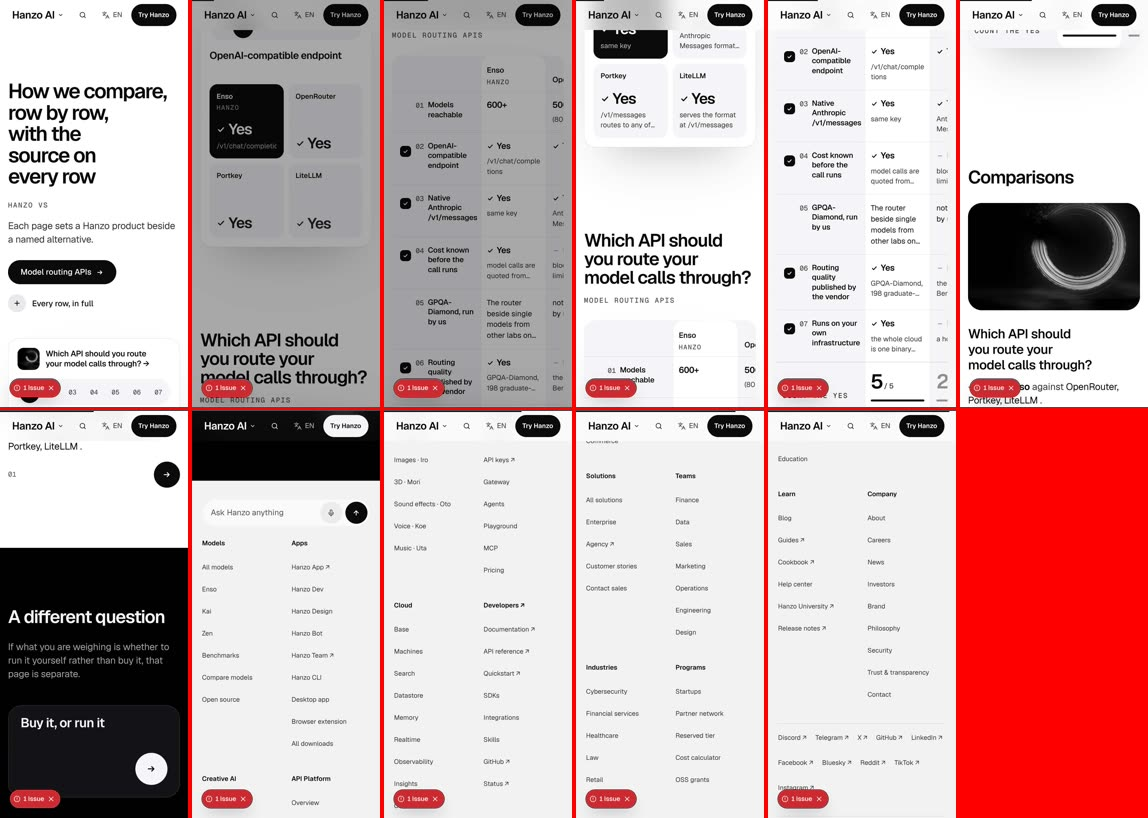
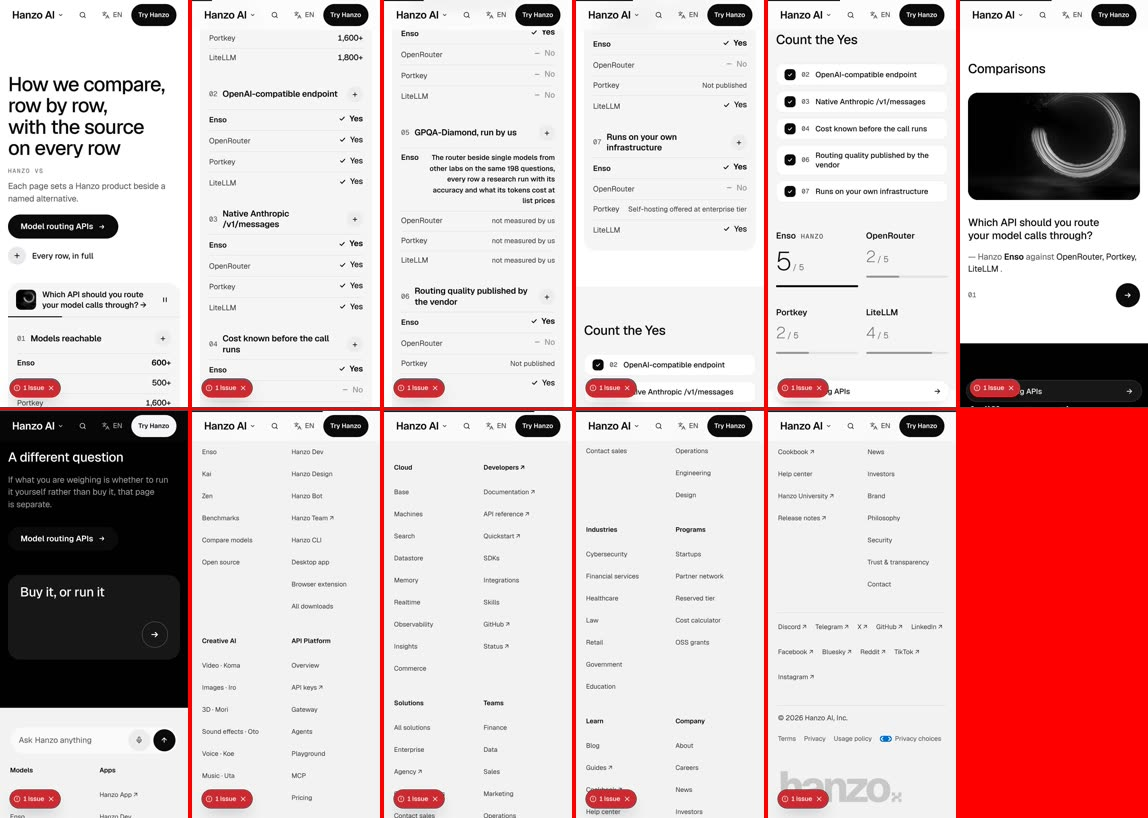
review: /compare 8/10 (third walk, post-system)
Claude-Session: https://claude.ai/code/session_01DqUybDEA5FZ4ZbAGVya4QA

diff --git a/docs/review/compare.md b/docs/review/compare.md
@@ -1,43 +1,42 @@
 # /compare — James-eye review
 
-Verdict: 7/10
-First complaint: "The board up top is lovely, then it turns into a spreadsheet of tiny grey sentences. One thing at a time."
+Verdict: 8/10
+First complaint: "Tidy and honest, but the top is just a heading and a table. I want one moment that makes me stop."
 
-Walked 7 Nov (second walk, after the rework to greys), page file at `b6f73d1` (`components/pages/Compare.jsx`, `Compare.css`), on the preview of main plus the Proof branch. Filmed moving at 1470×801 and 375×812 (wheel and finger scroll, dwell on every screen, hover and press on desktop, taps on phone), plus reduced motion and JS off. Stills: `review/compare/desktop-walk.jpg`, `review/compare/phone-walk.jpg`. The machine was overloaded, so motion is judged from frames.
+Walked 7 Nov 15:10 (third walk, after the shared system landed), page file at `575d9913` (`components/pages/Compare.jsx`, `Compare.css`), unchanged during the walk. Judged by `docs/JAMES.md` and `docs/MASTER.md`. Filmed moving at 1470×801 and 375×812 (wheel and finger scroll, dwell on every screen, hover and press on desktop, taps on phone), plus reduced motion and JS off. Stills: `review/compare/desktop-walk.jpg`, `review/compare/phone-walk.jpg`. The machine was overloaded, so motion is judged from frames.
 
 ## What works
-- The colour is gone. Greys, ink and white only. The Enso film still is the one image.
-- The hero now has a live object. The verdict board walks rows 01–07 on its own: the pill glides, the four lanes flip to that row's answer, and Enso's lane is raised in ink. It moves without input and pauses under the hand.
-- One ask, "Model routing APIs →" (Hanzo's words), in the hero, plus a desktop pill ("Hanzo vs · Model routing APIs") that stays after the hero.
-- "HANZO VS" moved under the headline as a caption, so there is no eyebrow over the h1.
-- "Count the Yes" still works (5/5, 2/5, 2/5, 4/5 recount as you untick rows). It is honest: Enso's 600+ sits beside 1,600+ and 1,800+.
-- Parity: text 28/28, links 2/2. CLS 0 on desktop, 0.01 on phone. Reduced motion leaves 0 running animations. Hovers answer; the ask lifts 1px and darkens.
+- **The first screen fits at 1470×801:** the h1 at rest size (52px, line height 1.04), lede, one ask ("Model routing APIs →") and the table as a wide object with four rows showing.
+- **The table reads itself:** a reading line walks the rows, "05 / 07" counts, a hairline times the next row, and a pause button sits in the table head. It moves within a second with no input.
+- **Scale has rhythm:** Enso's tally is the one big figure (5/5 at 84px), the other three sit at 44px, and the rest is small.
+- **Only greys and ink:** "Yes" in ink, "No" in grey with a dash, Enso's column raised by weight. The Enso film still is the one image. `taste.py` passes.
+- **Phone is its own design:** the table becomes one card per row with the four APIs stacked, and the full sentence opens on tap.
+- **Counting the Yes still works:** untick rows and each tally recounts.
+- **The ask repeats once more**, solid, in the dark room ("A different question").
+- **The checks pass:** parity 28/28 text and 2/2 links, CLS 0.0002, reduced motion 0 running animations, and JS off shows all 23 text blocks. Both cards answer hover (the Enso art drifts up; the dark card fills) and press scales to .98.
 
 ## The 11 answers
-1. **Sells in 5 seconds, moves within 1 second?** Yes. Headline, one ask and a board that is already flipping.
-2. **One in, one out, or a document?** The hero is a scene. After it, the page is a document: a full seven-row table with a sentence under every cell, then the tally, a card and the dark room. The row-per-screen chapters are gone, so nothing hands over to the next thing as you scroll.
-3. **A real visual object in every section?** Board, tally figures, Enso card: yes. The table is a wall of 13px text, not an object.
-4. **One ask, sticky after the hero?** Desktop: yes, the pill. But it sits under a solid "Try Hanzo" in the site header, so two different solid asks show together. Phone: the ask is in the hero only. After that there is just the header's "Try Hanzo", and no thumb bar for "Model routing APIs".
-5. **Every hover and press answers, no jumps?** Yes on desktop, and the row switches answer taps on phone. The press on the ask does not scale or drop (hover lift only).
-6. **Overlaps, font swap or layout shift?** None seen. Phone: the table runs off the right edge and you scroll it sideways with columns cut ("Op…"). JS off: 16 of 22 text blocks stay invisible.
-7. **Which reference, is its motion there?** The board is motion.dev's toggle pill, done well. Apple's one-idea-per-screen is gone below the hero. synchronized.studio is claimed for the Enso card, but it lands on `/compare/model-routing`, a plain text page without the image.
-8. **Different from neighbours?** Partly. Same frame as /comparison, /research and /security (white page, headline left, card right). The live board does give it its own hero object.
-9. **18 areas (PLAN-COMPONENTS)?** See below. No `docs/coverage/compare.md`.
-10. **Banned tells?** Clutter: an explaining sentence under every Yes and No in the table. The other tells are cleared.
-11. **Copy untouched?** Yes. Parity clean; every figure (600+, 500+, 1,600+, 1,800+, 198 questions, 58.2%, 46.8%) sits in its source cell.
+1. **Sells in 5 seconds, moves within 1 second?** Yes. Claim, ask and a table already walking its rows.
+2. **One in, one out, or a document?** Yes. Four screens, one idea each: the table, the count, the comparison card and the different question.
+3. **A real visual object in every section?** Yes: table, tally figures, Enso card, dark "Buy it, or run it" card.
+4. **One ask, sticky after the hero?** The page's ask is in the hero and the dark room. After the hero, the phone gets the slim "Model routing APIs →" bar. On desktop the sticky header still says "Try Hanzo", so the first screen shows two solid buttons with different labels (shared).
+5. **Every hover and press answers, no jumps?** Yes. Row hovers fill, cards lift their art or fill, and presses scale.
+6. **Overlaps, font swap or layout shift?** None. The hydration warning badge ("1 Issue") shows on every page (shared).
+7. **Which reference, is its motion there?** motion.dev's reading pill and Apple's one idea per screen are both there. synchronized.studio is claimed for the Enso card, but the destination (`/compare/model-routing`, family owner) has no matching hero yet.
+8. **Different from neighbours?** Yes. A self-reading table as the hero is not used by /comparison (receipt), /research (paper desk) or /security (layer stack).
+9. **18 parts (MASTER card)?** 18 of 18 `Done here:` lines, checked below.
+10. **Banned tells?** None. The "HANZO VS" caption sits over the lede, not over a headline. No hue and no floating bar.
+11. **Copy untouched?** Yes; every figure (600+, 500+, 1,600+, 1,800+, 198 questions) is in its source cell.
 
-## Missing from the 18 areas
-- **2.3 First impression:** the h1 is 67px, below the Display step (CANON h1 is about 106px at this width). The board wins the squint test, not the headline. No closing Band with the one solid ask (the dark room ends on a round arrow icon).
-- **2.3 Morph:** the card's Enso image does not reach the destination hero.
-- **2.4 Conversion:** no phone thumb bar for the page's ask. Header and pill compete on desktop.
-- **2.6 Content:** the full table sits in the main scroll. The plan puts long tables behind a tab or sheet, and the page already has "Every row, in full".
-- **2.15 / 2.11 Phone:** a sideways-scrolling table instead of list rows.
-- **2.17 States:** most text is hidden with JS off.
-- **2.18 Measurement:** no `Persona:` / `Goal:` / `CTA:` lines, no `data-cta`.
+## Card check (docs/coverage/compare.md)
+- 18 of 18 parts filled. Spot-checked: part 3 (52px h1, 4 rows at 1470×801, JS off 0 hidden), part 7 (84px tally as the one moment), part 11 (phone rows) and part 12 (pause) are all true.
+- Part 8 says presses scale .97; measured .98. Close, but correct the card or the CSS.
 
-## Fixes (in order)
-1. **Fold the table into the sheet.** The full sentences already live behind "Every row, in full". In the main scroll, keep only Yes or No per cell (ink and 40% grey) with the row name. Or bring back one row per screen, with the board pinned as you scroll.
-2. **Phone gets list rows, not a table.** One row per card: the row name, then Enso, OpenRouter, Portkey and LiteLLM stacked, each Yes or No, and the sentence on tap.
-3. **One ask everywhere.** Add the phone thumb bar for "Model routing APIs →". End the dark room on the same solid ask, not a round icon. Give the ask a press state (scale .98 or a 1px drop).
-4. **Let the headline lead.** Raise the h1 to the Display step (about 96–112px at 1470) and let the board take the 5 columns beside it, so the words are the first mass and the board the second.
-5. **Make the card land.** Ask the `/compare/*` family owner for the Enso image and the question title as that page's hero, so the click is continuous.
+## What is missing
+- **Part 3:** no closing `Band`. The dark room carries the ask, then the footer, which is acceptable. The destination of the Morph is not designed yet (family owner).
+- **Part 4:** the header label "Try Hanzo" and the page's ask disagree on desktop (shared).
+
+## Fixes
+1. **Give the first screen its moment.** Let the row the reading line is on grow for the beat it is read (Enso's cell up to the 64px figure size, then back to rest), so the eye has one big thing in the hero, as the count screen already does.
+2. **Land the card.** With the `/compare/*` family owner, make the Enso image and the question title the destination hero, so the click is continuous.
+3. **Correct the press value** on the card (part 8) to match what ships.
